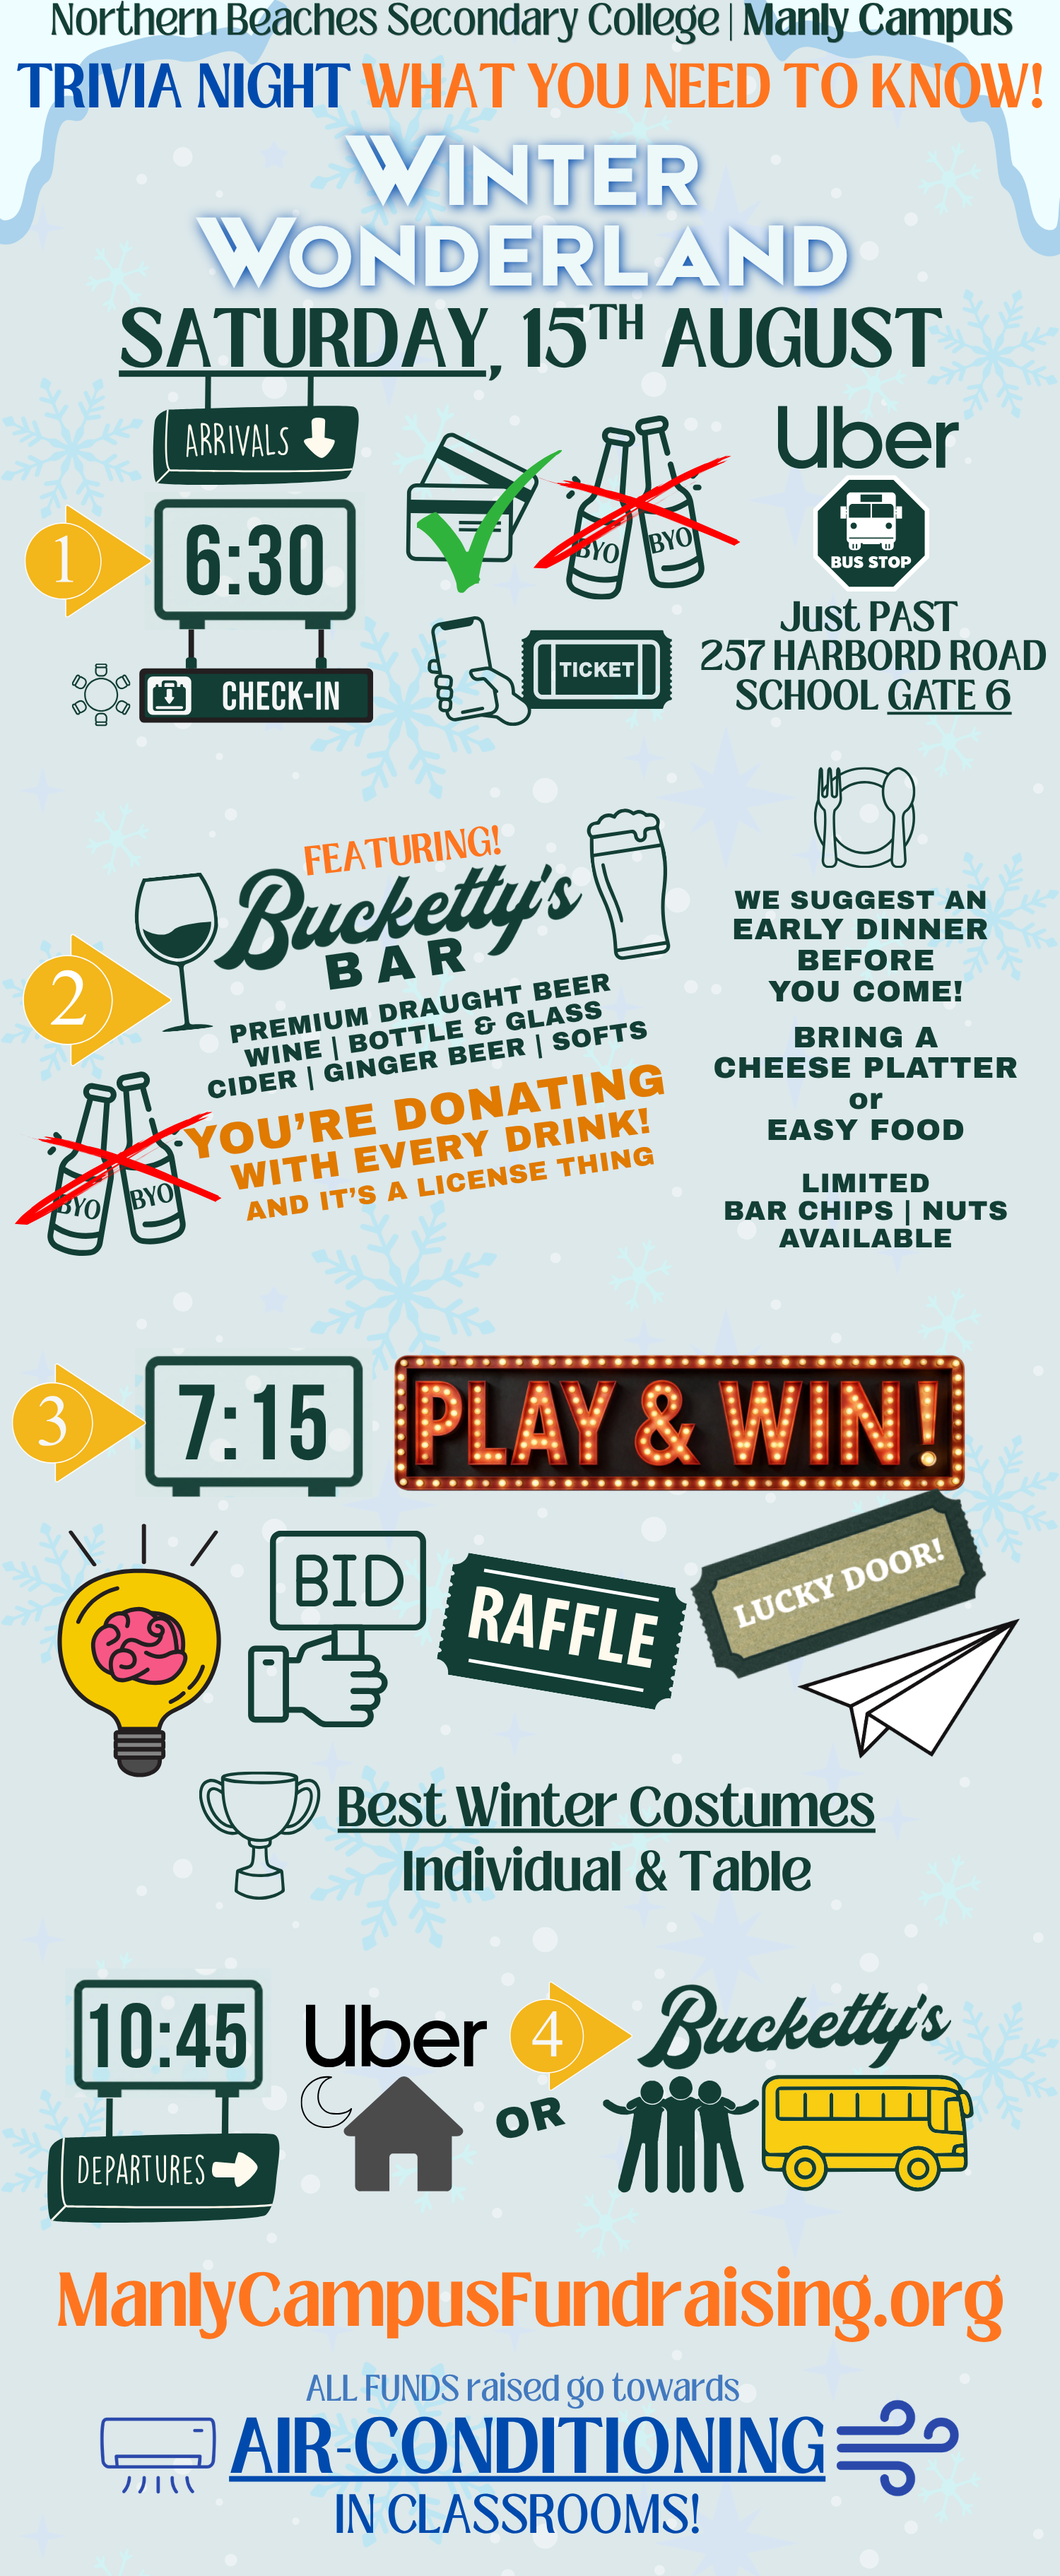
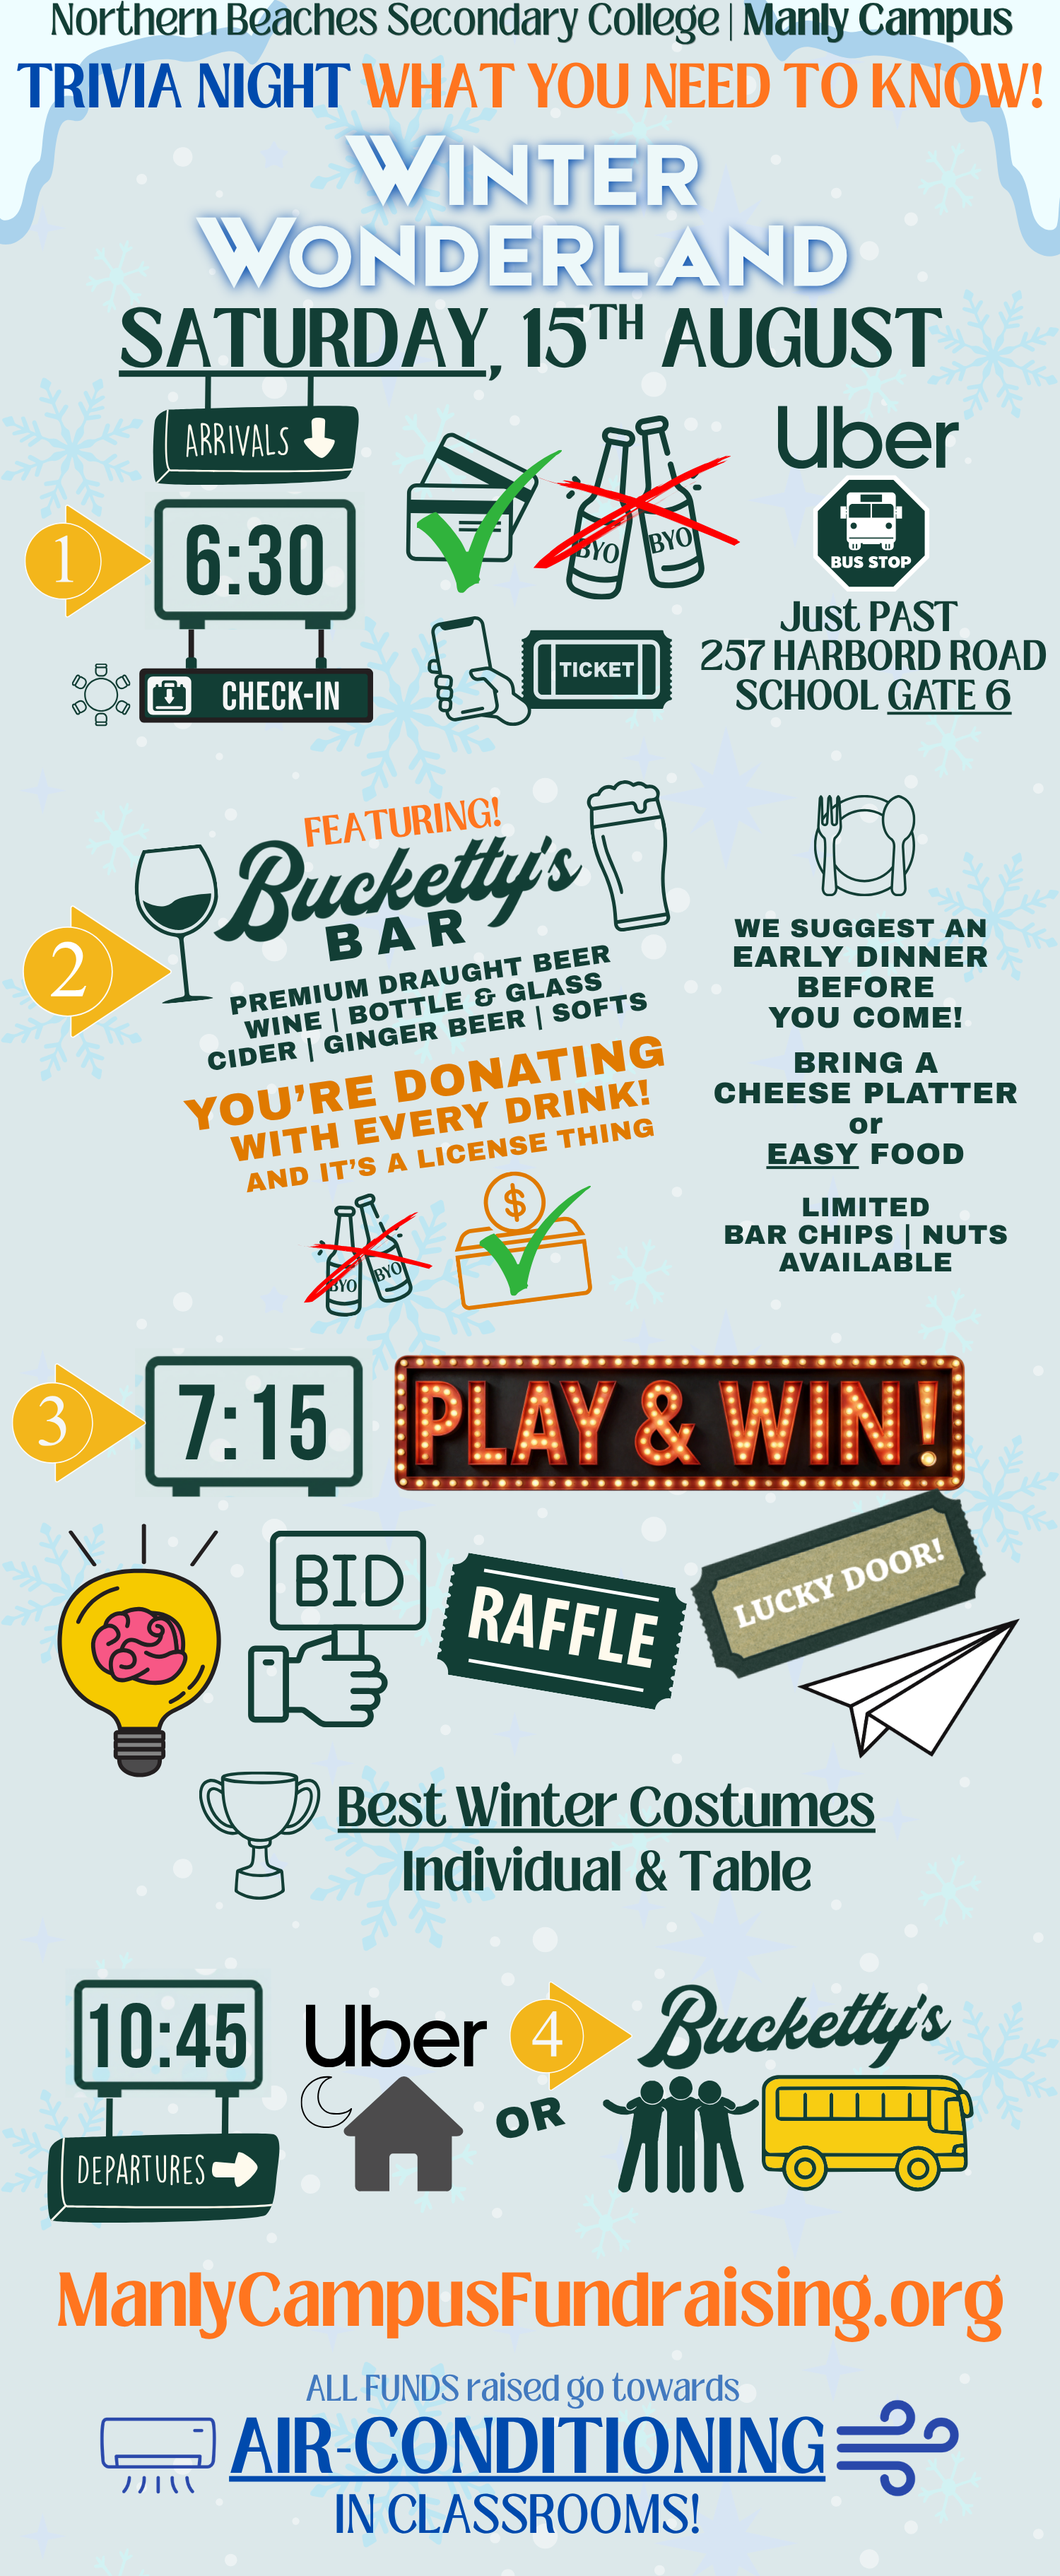
night: updated Winter Wonderland graphic (revised section 2), cache-bust to v2

Changed region(s): [[0.0, 0.31, 0.644, 0.527], [0.6747, 0.279, 0.9813, 0.496]]

diff --git a/night.html b/night.html
@@ -94,7 +94,7 @@
     <a class="tix tix-top" href="https://app.galabid.com/manlytrivia/">Buy Raffle &amp; BID! &rarr;</a>
   </header>
   <main>
-    <img class="notice" src="Trivia-Night.webp?v=1"
+    <img class="notice" src="Trivia-Night.webp?v=2"
          alt="Manly Campus Trivia Night — Saturday 15 August. 1) Check-in 6:30, ticket ready, no BYO, Uber/bus to School Gate 6, 257 Harbord Rd. 2) Bucketty's Bar featuring beer, wine, cider, softs — you're donating with every drink; suggest an early dinner or bring a cheese platter / simple snacks, limited bar snacks. 3) Play starts 7:15 — trivia, bid, raffle, lucky door, best winter costumes (individual & table), plane throw and more. 4) Departures 10:45 by Uber or Bucketty's bus. All funds go towards air-conditioning in classrooms. ManlyCampusFundraising.org">
   </main>
   <footer>
